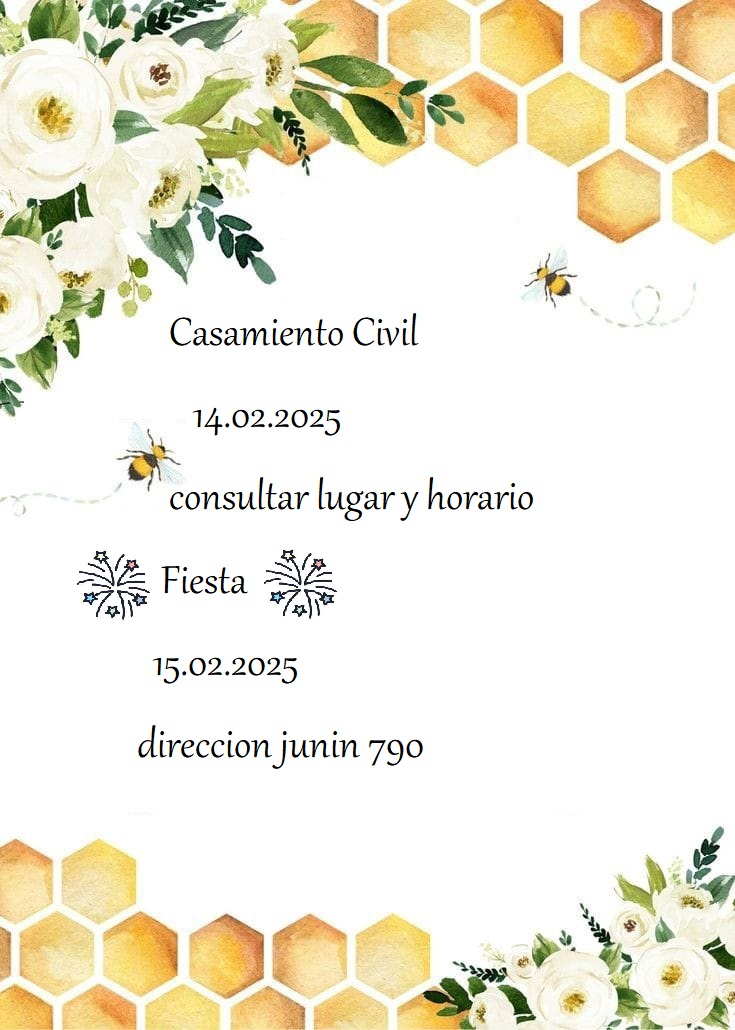
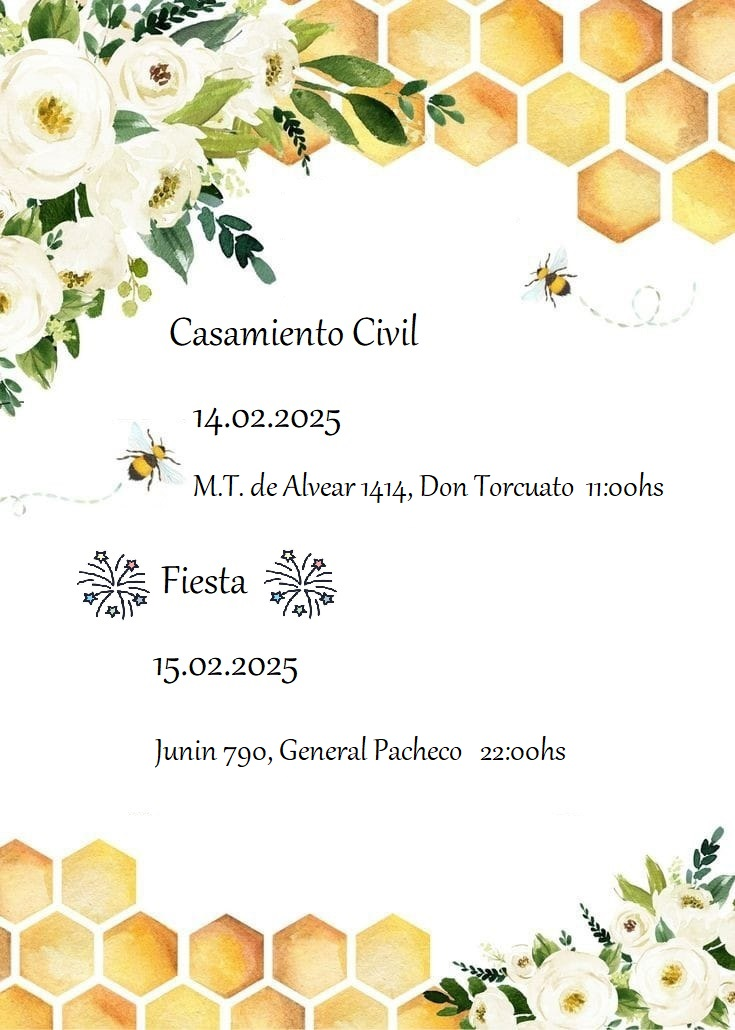
subido 6-2

Changed region(s): [[0.2095, 0.466, 0.898, 0.4971], [0.1796, 0.7146, 0.6286, 0.7456], [0.6585, 0.7146, 0.7782, 0.7456]]

diff --git a/css/styles.css b/css/styles.css
@@ -12,18 +12,18 @@
     justify-content: center;
 } 
 .contorno-img { 
-    position: relative;
+    position: relative; 
     margin: 10px; 
     width: 800px;
     justify-items: center;
     background-color: rgb(200, 235, 246);
 } 
-.imagen {
+.imagen { 
     display: block; 
     width: 780px; 
     height: auto;
 } 
-.boton {
+.boton { 
     position: absolute; 
     bottom: 200px; 
     left: 400px; 
@@ -36,11 +36,28 @@
     cursor: pointer;
     box-shadow: 10px 10px 10px rgba(0, 0, 0, 0.5);;
 }
-.boton .boton2 :hover {
+.boton:hover {
     background-color:  rgb(200, 235, 246);
     color: rgb(9, 63, 17);
 }
-.boton2 {
+.boton0 { 
+    position: absolute; 
+    bottom: 620px; 
+    left: 400px; 
+    color: white; 
+    font-size: 30px; 
+    font-weight: bold; 
+    background-color: rgba(19, 88, 19, 0.5); 
+    padding: 5px; 
+    border-radius: 20px; 
+    cursor: pointer;
+    box-shadow: 10px 10px 10px rgba(0, 0, 0, 0.5);;
+}
+.boton0:hover {
+    background-color:  rgb(200, 235, 246);
+    color: rgb(9, 63, 17);
+}
+.boton2 { 
     position: absolute; 
     bottom: 470px; 
     left: 300px; 
@@ -52,6 +69,10 @@
     border-radius: 20px; 
     cursor: pointer;
     box-shadow: 10px 10px 10px rgba(0, 0, 0, 0.5);;
+}
+.boton2:hover {
+    background-color:  rgb(200, 235, 246);
+    color: rgb(9, 63, 17);
 }
 .tickcounter {
     display:grid; 
@@ -73,6 +94,12 @@
     } 
     .boton { 
         bottom: 200px; 
+        left: 370px; 
+        font-size: 25px;
+        padding: 10px; 
+    } 
+    .boton0 { 
+        bottom: 570px; 
         left: 370px; 
         font-size: 25px;
         padding: 10px; 
@@ -102,6 +129,12 @@
     .boton { 
         bottom: 60px; 
         left: 90px; 
+        font-size: 20px;
+        padding: 10px; 
+    } 
+    .boton0 { 
+        bottom: 290px; 
+        left: 180px; 
         font-size: 20px;
         padding: 10px; 
     } 

diff --git a/index.html b/index.html
@@ -24,6 +24,13 @@
                     window.open(url, '_blank'); 
                     } 
                 </script>
+                <div class="boton0" onclick="mostrarUbicacion()">Ubicación Civil</div> 
+                <script> function mostrarUbicacion() { 
+                    const latitudc = -34.49460345057348; const longitudc = -58.63272413611924; 
+                    const url = `https://www.google.com/maps?q=${latitudc},${longitudc}&z=15&output=embed`; 
+                    window.open(url, '_blank'); 
+                    } 
+                </script>
             </div>
             <div class="contorno-img">
                 <img class="imagen" src="assets/images/4.jpg" alt="">
